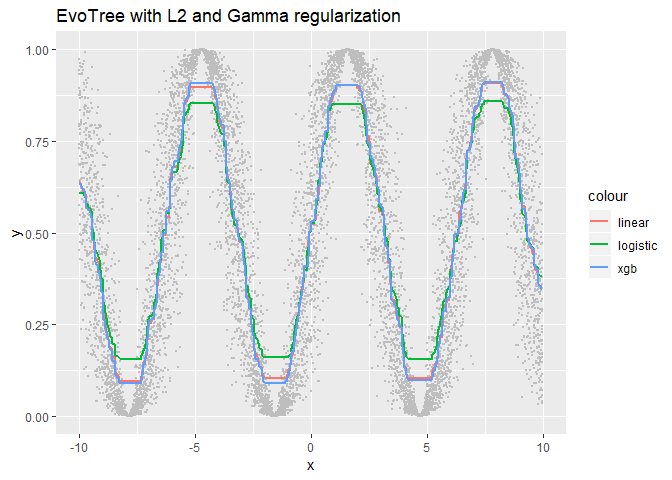
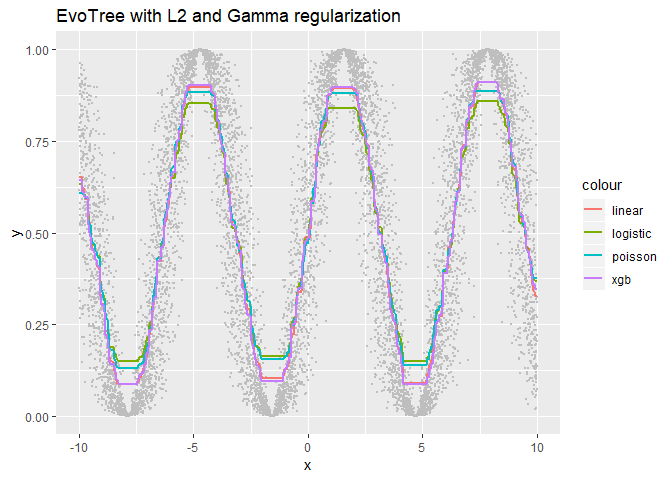
update license

diff --git a/README.md b/README.md
@@ -5,13 +5,13 @@ EvoTrees
 
 # Installation
 
-EvoTrees.jl needs first to be installed and available from main julia
+EvoTrees.jl needs first to be installed and available from main Julia
 environment. Then, install EvoTree R package with:
 `devtools::install_github("Evovest/EvoTrees")`.
 
 # Parameters
 
-  - loss: {“linear”,“logistic”}
+  - loss: {“linear”, “logistic”, “Poisson”}
   - nrounds: 10L
   - lambda: 0.0
   - gamma: 0.0
@@ -40,6 +40,11 @@ pred_linear <- predict(model = model, data = data_train)
 params <- list(loss = "logistic", nrounds = 200, eta = 0.05, lambda = 0.5, gamma = 0.5, max_depth = 5, min_weight = 1, rowsample = 0.5, colsample = 1)
 model <- evo_train(data_train = data_train, target_train = target_train, params = params, metric = as.symbol("logloss"))
 pred_logistic <- predict(model = model, data = data_train)
+
+# poisson regression
+params <- list(loss = "poisson", nrounds = 200, eta = 0.05, lambda = 0.5, gamma = 0.5, max_depth = 5, min_weight = 1, rowsample = 0.5, colsample = 1)
+model <- evo_train(data_train = data_train, target_train = target_train, params = params, metric = as.symbol("none"))
+pred_poisson <- predict(model = model, data = data_train)
 
 # xgboost reference
 params <- list(max_depth = 4, eta = 0.05, subsample = 0.5, colsample_bytree = 1.0, min_child_weight = 1, lambda = 1, alpha = 0, gamma = 1.0, tree_method = "exact", objective = "reg:linear", eval_metric = "rmse")
